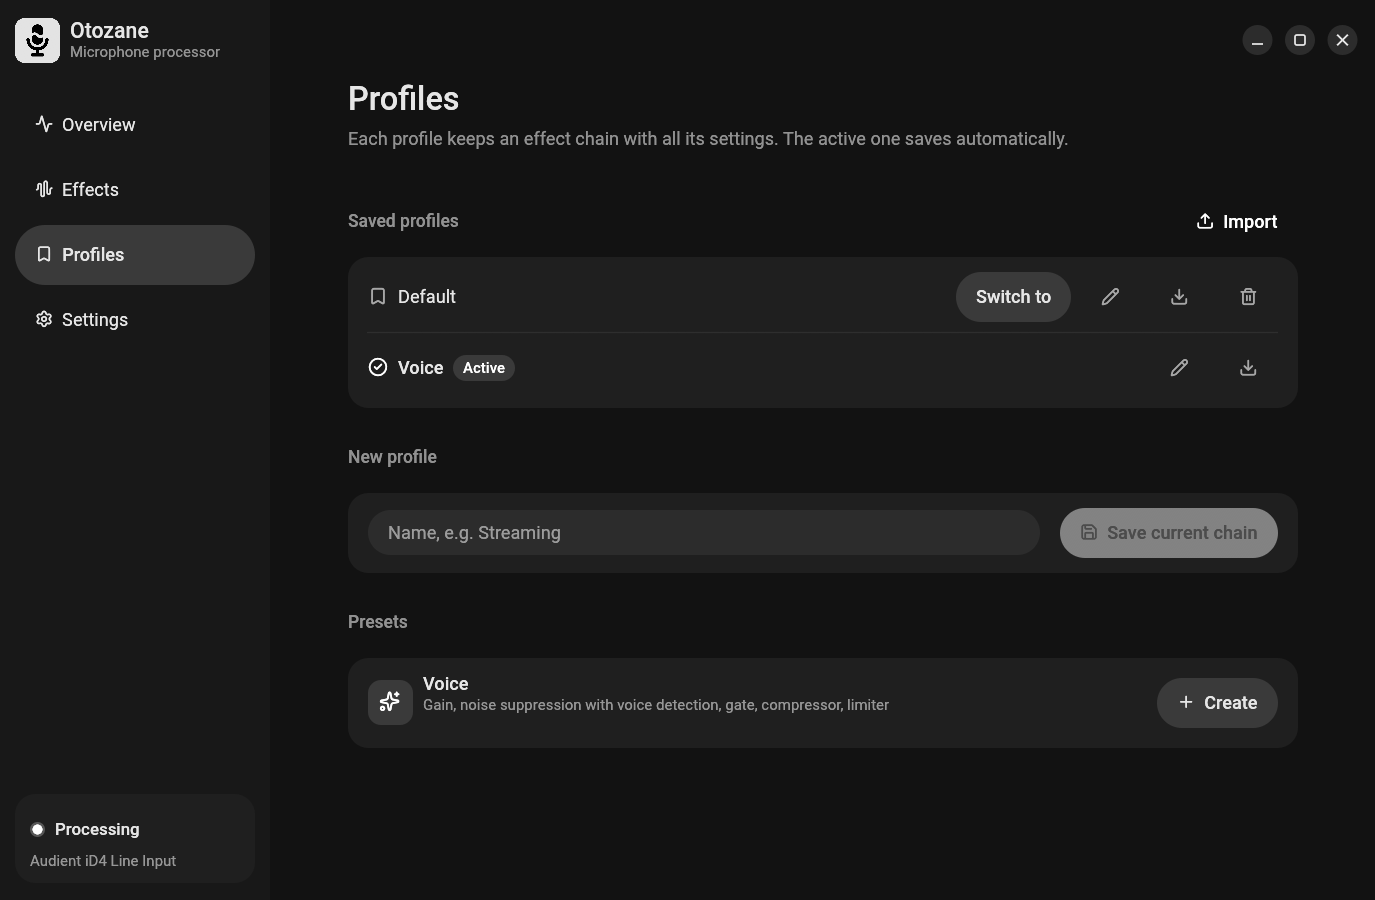
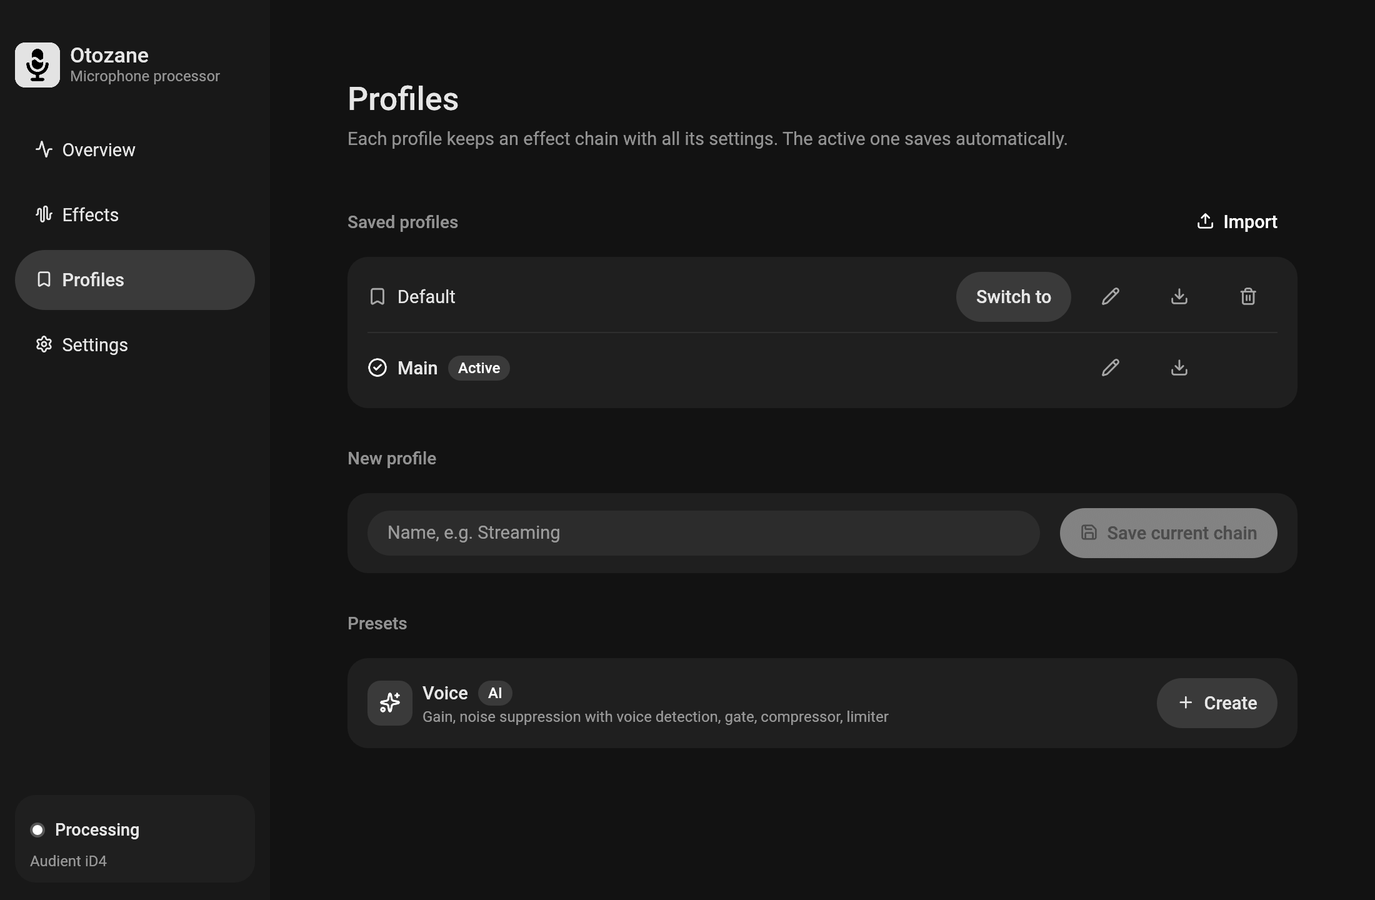
feat(ui): AI badge on the Voice preset
Derived from the preset chain with is_ai() and is_heavy().

diff --git a/crates/otozane-ui/src/app.rs b/crates/otozane-ui/src/app.rs
@@ -805,12 +805,17 @@ impl App {
                 + 2.0 * ui.spacing().button_padding.x;
             let w = ui.available_width() - 36.0 - button_w - 3.0 * gap;
             let wrap = Some(egui::TextWrapMode::Wrap);
+            let chain = otozane_core::config::Profile::voice().chain;
+            let ai = chain.iter().any(|e| e.kind.is_ai());
+            let heavy = chain.iter().any(|e| e.kind.is_heavy());
+            let badges_size = effects::badges_size(ui, ai, heavy);
             let title = egui::WidgetText::from(widgets::medium("Voice")).into_galley(
                 ui,
                 wrap,
-                w,
+                w - badges_size.x,
                 egui::TextStyle::Body,
             );
+            let title_h = title.size().y.max(badges_size.y);
             let desc = egui::WidgetText::from(
                 RichText::new(
                     "Gain, noise suppression with voice detection, gate, compressor, limiter",
@@ -819,7 +824,7 @@ impl App {
                 .weak(),
             )
             .into_galley(ui, wrap, w, egui::TextStyle::Body);
-            let text_h = title.size().y + desc.size().y + 2.0;
+            let text_h = title_h + desc.size().y + 2.0;
             let row_h = text_h.max(48.0);
             ui.horizontal(|ui| {
                 ui.set_min_height(row_h);
@@ -838,7 +843,15 @@ impl App {
                     ui.set_max_width(w);
                     ui.spacing_mut().item_spacing.y = 2.0;
                     ui.add_space((row_h - text_h) / 2.0);
-                    ui.label(title);
+                    // Not ui.horizontal, which is at least a control tall and would break text_h.
+                    ui.allocate_ui_with_layout(
+                        egui::vec2(w, title_h),
+                        egui::Layout::left_to_right(egui::Align::Center),
+                        |ui| {
+                            ui.label(title);
+                            effects::badges(ui, ai, heavy);
+                        },
+                    );
                     ui.label(desc);
                 });
                 ui.with_layout(egui::Layout::right_to_left(egui::Align::Center), |ui| {
@@ -850,9 +863,7 @@ impl App {
                         // Keeps the current profile: switch to a new one, then fill it.
                         let name = unique_name(&self.profiles, "Voice");
                         self.send(Request::SaveProfileAs { name });
-                        self.send(Request::SetChain {
-                            chain: otozane_core::config::Profile::voice().chain,
-                        });
+                        self.send(Request::SetChain { chain });
                     }
                 });
             });

diff --git a/crates/otozane-ui/src/effects.rs b/crates/otozane-ui/src/effects.rs
@@ -33,22 +33,41 @@ pub fn kind_icon(kind: EffectKind) -> &'static str {
 
 const LABEL_W: f32 = 150.0;
 
-const AI_TIP: &str = "Uses a neural network to process the sound.";
+pub(crate) const AI_TIP: &str = "Uses a neural network to process the sound.";
 
-fn heavy_tip() -> String {
+pub(crate) fn heavy_tip() -> String {
     let ms = hush::LATENCY as f32 * 1000.0 / otozane_core::SAMPLE_RATE as f32;
     format!("Costs noticeably more CPU and adds about {ms:.0} ms of latency.")
 }
 
 /// Draws the AI and Heavy badges the effect kind has, with hover text.
 fn kind_badges(ui: &mut Ui, kind: EffectKind) {
+    badges(ui, kind.is_ai(), kind.is_heavy());
+}
+
+/// Draws the AI badge, and the Heavy one next to it, with hover text.
+pub(crate) fn badges(ui: &mut Ui, ai: bool, heavy: bool) {
     let p = theme::current(ui.ctx());
-    if kind.is_ai() {
+    if ai {
         widgets::badge(ui, "AI", p.accent, p.accent_soft).on_hover_text(AI_TIP);
     }
-    if kind.is_heavy() {
+    if heavy {
         widgets::badge(ui, "Heavy", p.text_weak, p.raised).on_hover_text(heavy_tip());
     }
+}
+
+/// Size [`badges`] take, spacing included.
+pub(crate) fn badges_size(ui: &Ui, ai: bool, heavy: bool) -> egui::Vec2 {
+    let gap = ui.spacing().item_spacing.x;
+    let mut size = egui::Vec2::ZERO;
+    for text in [ai.then_some("AI"), heavy.then_some("Heavy")]
+        .into_iter()
+        .flatten()
+    {
+        let s = widgets::badge_size(ui, text);
+        size = egui::vec2(size.x + gap + s.x, size.y.max(s.y));
+    }
+    size
 }
 
 /// One parameter line: fixed-width label, then the control filling the rest,
